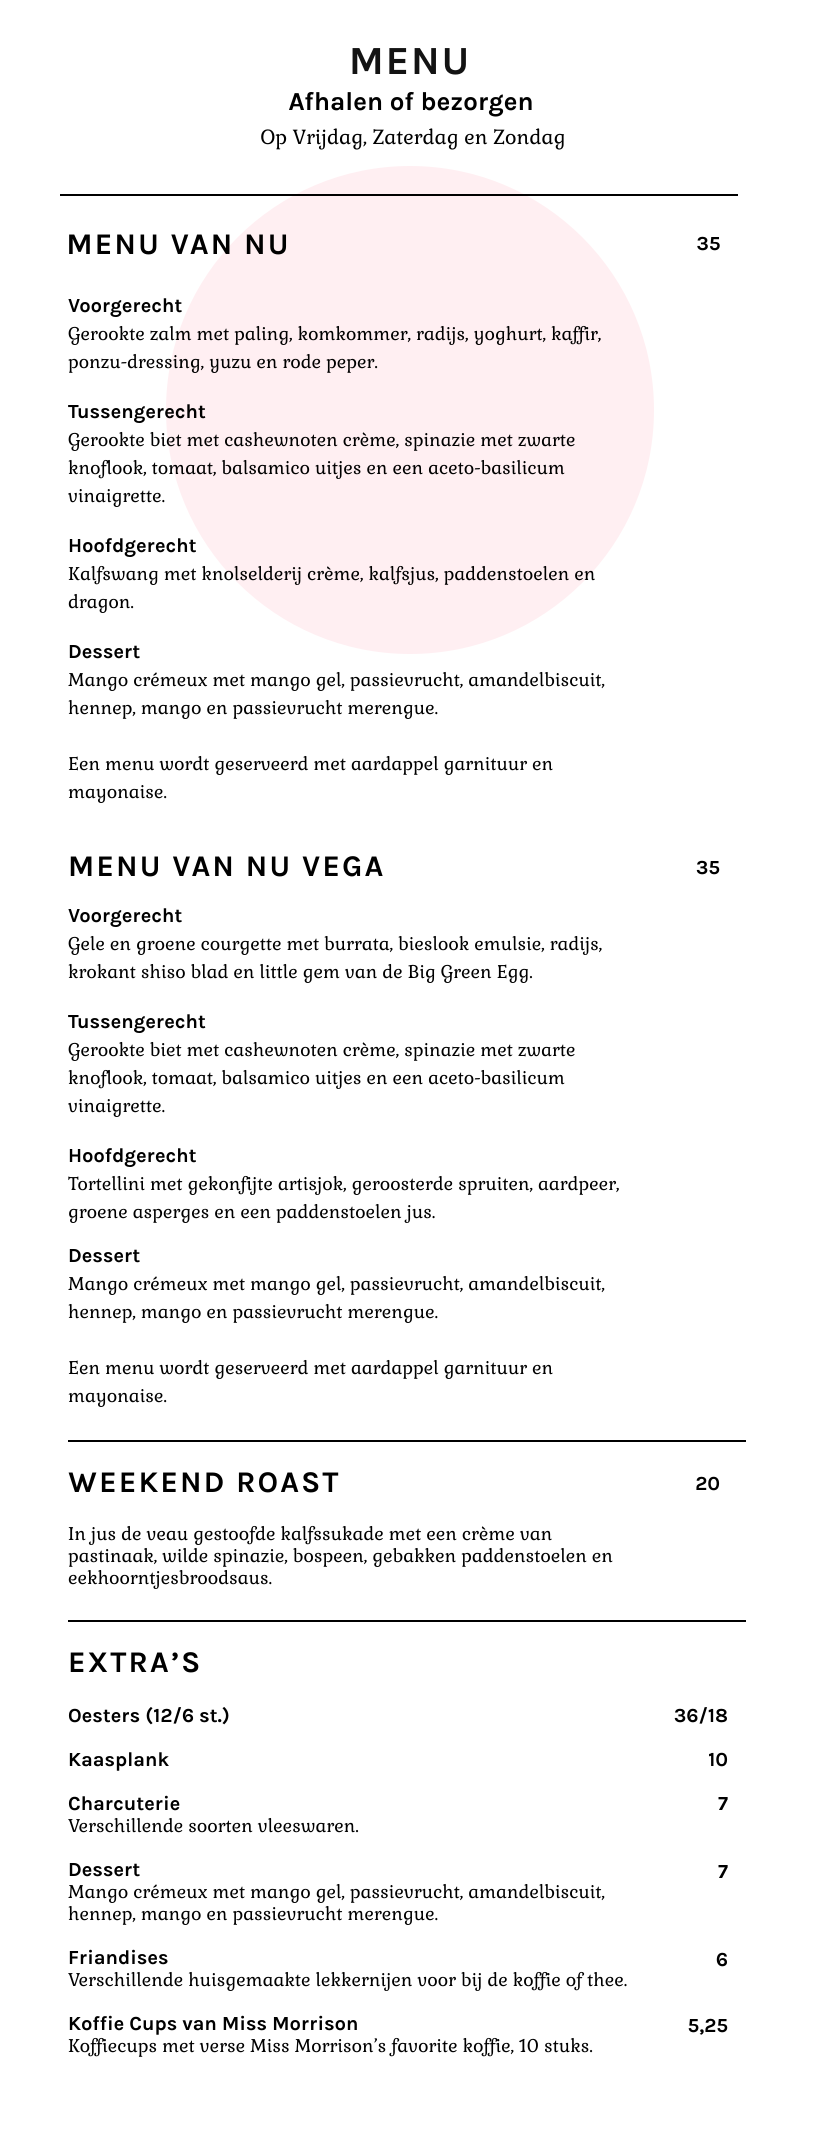
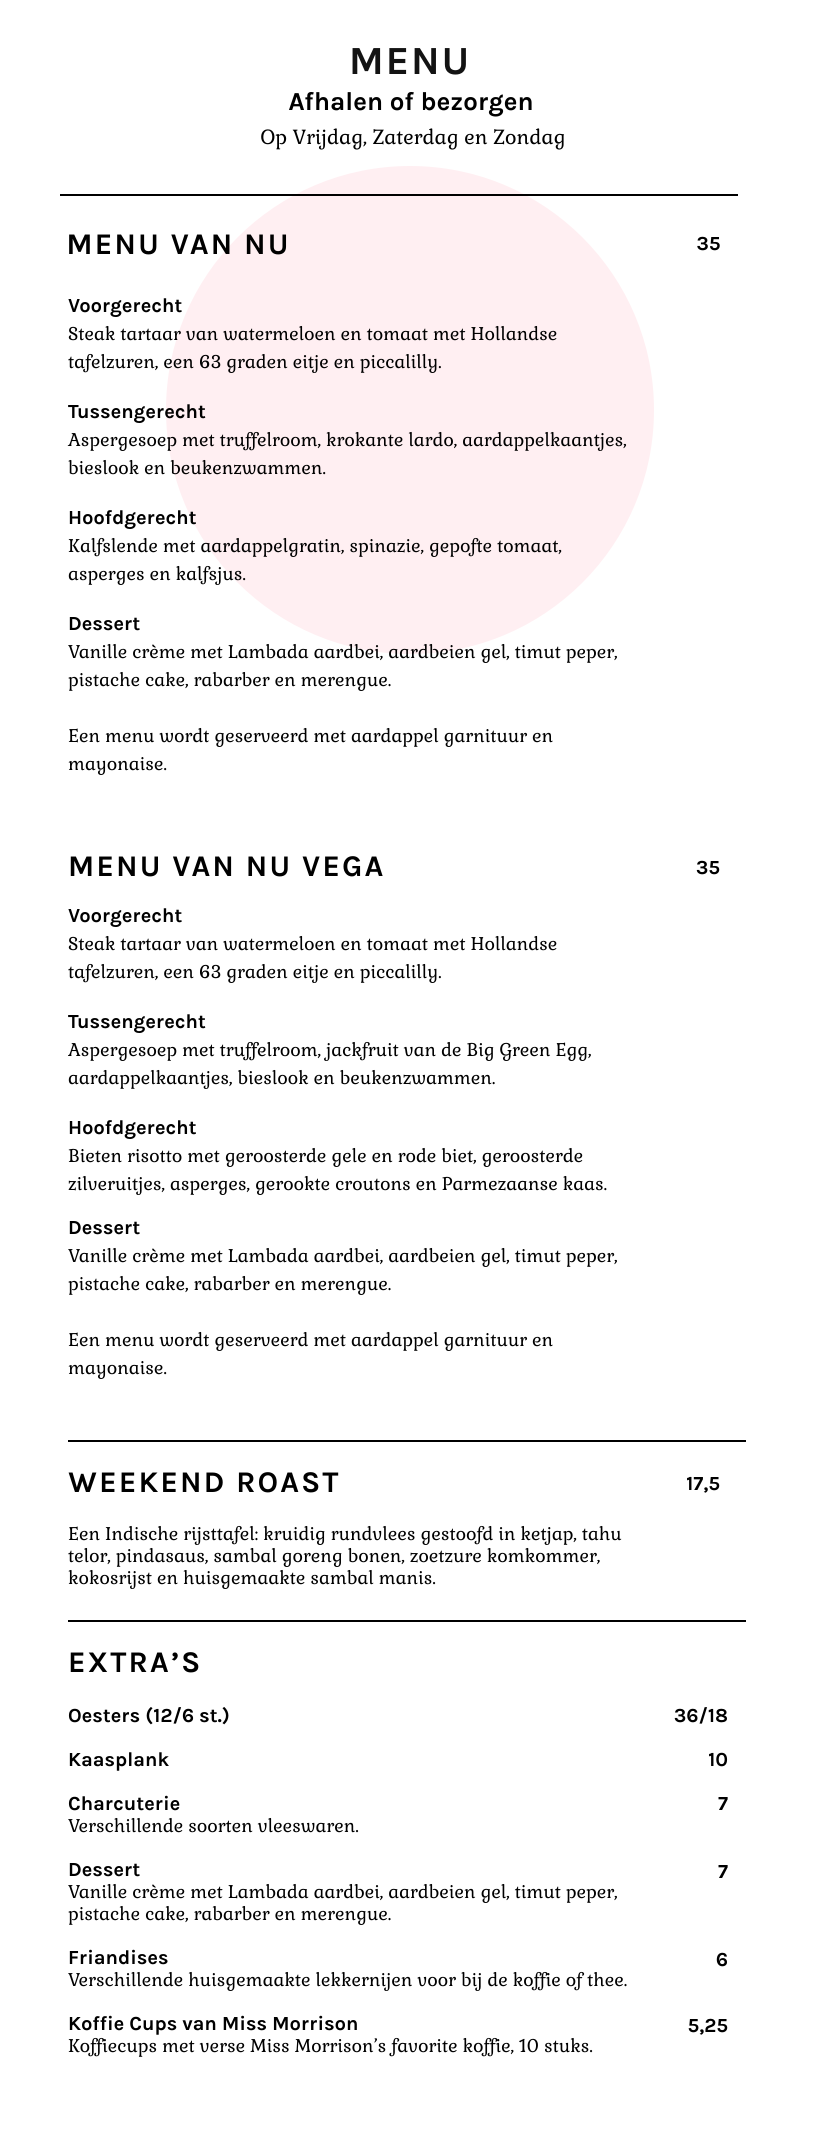
nieuwe roast en menu

diff --git a/src/client/roast/index.html b/src/client/roast/index.html
@@ -98,21 +98,21 @@
     <div class="container-s page-intro-text reserveren-intro">
       
       <p> Met z’n tweeën op de bank hangen met een heerlijk gerecht en een goede fles wijn of met het hele gezin gezellig aan tafel het weekend vieren? 
-          Wij serveren naar Engelse traditie ieder weekend een wisselende roast. Een gerecht voor minimaal 2 personen dat alleen nog even de oven in moet. 
+          Wij serveren naar Engelse traditie ieder weekend een wisselende roast. Een gerecht voor minimaal 2 personen dat alleen nog even moet worden opgewarmd. 
           Zoals je van ons gewend bent maken we alles zelf met verse producten, dus bestel snel, want op = op!
       </p>
 
-      <p style="font-size:20px; font-family: Karla;"> <b>DIT WEEKEND - 19, 20 en 21 MAART</b></p>
+      <p style="font-size:20px; font-family: Karla;"> <b>DIT WEEKEND - 26, 27 en 28 MAART</b></p>
       <div class="image-roast roast-header"></div><br>
-      <p>In jus de veau gestoofde kalfssukade met een crème van pastinaak, wilde spinazie, bospeen, gebakken paddenstoelen en eekhoorntjesbroodsaus.
+      <p>Een Indische rijsttafel: kruidig rundvlees gestoofd in ketjap, tahu telor, pindasaus, sambal goreng bonen, zoetzure komkommer, kokosrijst en huisgemaakte sambal manis.
         <br><br>
       </p>
         <p style="font-size:20px; font-family: Karla;"> <b> BIJPASSENDE WIJN </b></p>
-        <p><b>Franco Conterno – D.O.C. Barbera d’Alba Superiore – Piemonte    </b><br>
-          Gesitueerd: De zonnige klei- en zandheuvels rond het dorp Barolo. <br>
-          Wijnkelder: Twaalf maanden rijping op barrique.<br>
-          Bijzonder: Elegante Italiaan met tonen van bloesem en mooie zuren. <br>
-          Serveren: Achttien graden Celsius. 
+        <p><b>Bestheim – Gewürztraminer – A.O.C. Alsace 
+              </b><br>
+              Gesitueerd: In de Elzas, zacht klimaat met relatief weinig neerslag en lange dagen in het naseizoen.<br>
+              Bijzonder: Licht zoet met tonen van exotisch fruit, honing en een frisse hint.<br>
+              Serveren: Twaalf graden Celsius.
 
           <br><br>
         </p>
@@ -127,7 +127,7 @@
           </div>
         </div>
         <div class="form-group row">
-            <label for="aantal" class="col-sm-6">Aantal personen (20 euro per persoon)</label>
+            <label for="aantal" class="col-sm-6">Aantal personen (17,50 euro per persoon)</label>
             <div class="col-sm-6">
               <div class="selectpicker">
                 <select id="aantal" name="aantal" class="form-control small-field">
@@ -144,7 +144,7 @@
             </div>
         </div>
         <div class="form-group row">
-          <label for="wijn" class="col-sm-6">Fles Barbera d'Alba (23 euro)</label>
+          <label for="wijn" class="col-sm-6">Fles Gewürztraminer (25,50 euro)</label>
           <div class="col-sm-6">
             <div class="selectpicker">
               <select id="wijn" name="wijn" class="form-control small-field">
@@ -192,8 +192,7 @@
         </div>
       </div>
       <div class="form-group row">
-        <label for="dessert" class="col-sm-6">Dessert (7,00 per stuk): Mango crémeux met mango gel, passievrucht, amandelbiscuit, hennep, mango en passievrucht
-          merengue. </label>
+        <label for="dessert" class="col-sm-6">Dessert (7,00 per stuk): Vanille crème met Lambada aardbei, aardbeien gel, timut peper, pistache cake, rabarber en merengue.</label>
         <div class="col-sm-6">
             <input type="number" class="form-control small-field" name="dessert" id="dessert">
         </div>

diff --git a/src/client/bestel/index.html b/src/client/bestel/index.html
@@ -93,7 +93,7 @@
             Wij serveren ons vertrouwde <b> Menu van Nu </b>in het weekend. In een handomdraai zet je een 
             Centrale-waardig menu van 4 gangen op tafel. Kies voor ons<b> standaard menu </b>(combinatie van vlees en vis) of voor een <b>vegetarisch menu</b>. Ons menu wisselt elke twee weken!
               <br><br>
-            Toch liever een wat minder uitgebreid diner? Ga dan voor de <b>Weekend Roast</b>. Ieder weekend haal je bij ons een ander topgerecht af dat alleen nog even de oven in moet.</p>
+            Toch liever een wat minder uitgebreid diner? Ga dan voor de <b>Weekend Roast</b>. Ieder weekend haal je bij ons een ander topgerecht af dat alleen nog even moet worden opgewarmd.</p>
               <p> 🏠 Afhalen is mogelijk op vrijdag, zaterdag en zondag tussen 15:30 en 17:30. <br>
                 🚚 Bij bestelling van een 4 gangen menu is bezorgen mogelijk op vrijdag, zaterdag en zondag tussen 15:00 en 17:00 binnen Delft en omstreken. 
                 <br> 💳 Bij het afhalen kan je pinnen, bij het bezorgen sturen we een tikkie.

diff --git a/src/client/style.css b/src/client/style.css
@@ -1227,7 +1227,7 @@ label{
 
 .image-roast {
     width: 100%;
-    height: 40vh;
+    height: 50vh;
 }
 .image-roast:after{
     content: "";
